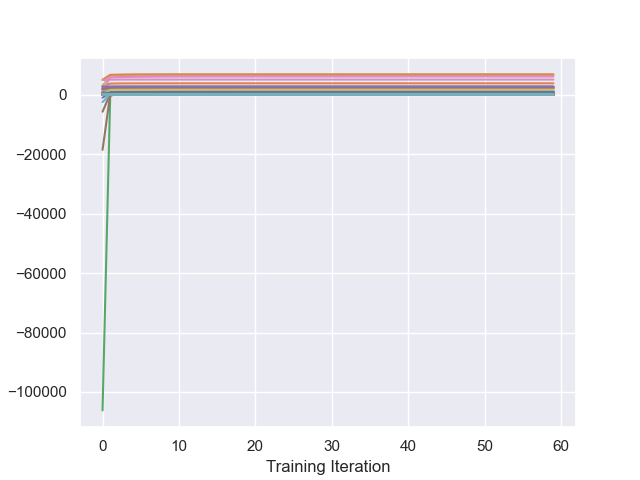
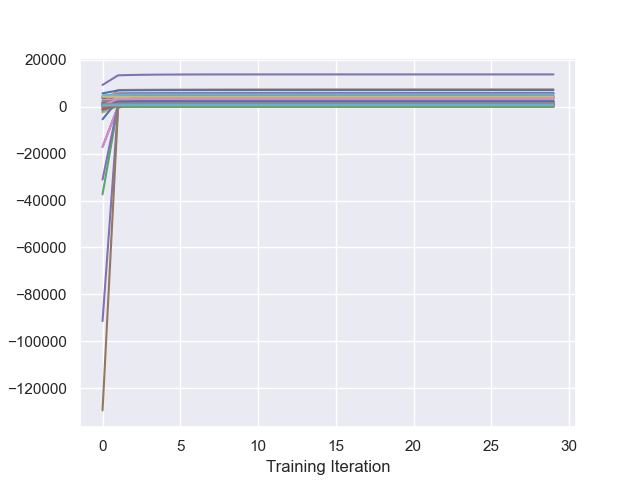
learning w better with cavi + binary optimizers

diff --git a/sp/src/trainer.py b/sp/src/trainer.py
@@ -30,7 +30,7 @@ class Trainer(object):
         # if using functional annotations
         if self.args.annotations:
             # annotation weight vector to be learned as a parameter
-            self.w = nn.Parameter(torch.tensor([0.]).repeat(self.num_annotations)) #TODO: confirm w should be initialized to 0 (was previously set to 1)
+            self.w = nn.Parameter(torch.tensor([5.]).repeat(self.num_annotations)) #TODO: confirm w should be initialized to 0 (was previously set to 1)
         
             # optimizer for annotation weight vector w
             if self.args.weight_opt == 'adam':
@@ -136,7 +136,9 @@ class Trainer(object):
                 loss = self.model() # compute ELBO
                 loss.backward(retain_graph=True) # TODO: what happens if I stop this?
                 t1 = self.model.gamma() # before
+                print(f'locus {locus} 2: ', self.w)
                 self.variational_opt.step()
+                print(f'locus {locus} 3: ', self.w)
                 t2 = self.model.gamma() # after
                 
                 idx = torch.argwhere( t1 != t2)
@@ -167,7 +169,7 @@ class Trainer(object):
             # compute multivariate-or function using log-sum-exp trick
             multivariate_or = 1 - torch.exp(torch.sum(torch.log(1 - gamma), dim=1))
             val, idx = torch.topk(multivariate_or, 5)
-            if self.args.verbose:
+            if self.args.verbose: # print if verbose
                 print(f'Locus {locus}:\t', idx.detach().numpy(), 
                     '  \t\t(SNP Index)', '\n\t\t', 
                     np.around(val.detach().numpy(), decimals=3),
@@ -182,9 +184,9 @@ class Trainer(object):
             
         # plotting
         self.plot_auprc(true.detach().numpy(), pred.detach().numpy())
-        self.plot_hist1(pred.detach().numpy())
-        self.plot_hist2(pred.detach().numpy())
-        self.plot_hist3(pred.detach().numpy())       
+        # self.plot_hist1(pred.detach().numpy())
+        # self.plot_hist2(pred.detach().numpy())
+        # self.plot_hist3(pred.detach().numpy())       
            
         # printing annotation weight vector
         if self.args.annotations:

diff --git a/sp/src/model.py b/sp/src/model.py
@@ -38,7 +38,7 @@ class SparsePro(nn.Module):
 
         # priors
         self.y_tau = 1.0 / (self.y_var * (1-self.h2)) # [1 x 1]
-        self.prior_pi = (1/self.p).repeat(self.p) # [num SNPs x 1]
+        self.pi = (1/self.p).repeat(self.p) # [num SNPs x 1]
         self.beta_prior_tau = torch.tile(torch.tensor(
             (1.0 / self.b_var * np.array([k+1 for k in range(self.k)])), 
             dtype=torch.float32), (self.p, 1))
@@ -77,7 +77,7 @@ class SparsePro(nn.Module):
         betaterm1 = -0.5 * (self.beta_prior_tau * self.gamma() 
             * (self.beta_mu**2)).sum()
         gammaterm1 = (self.gamma() * torch.tile(
-            self.prior_pi.reshape(-1, 1), (1, self.k))).sum()
+            self.pi.reshape(-1, 1), (1, self.k))).sum()
         gammaterm2 = (self.gamma()[self.gamma() != 0] *
             torch.log(self.gamma()[self.gamma() != 0])).sum()
         mkl = betaterm1 + gammaterm1 - gammaterm2
@@ -112,7 +112,8 @@ class SparsePro(nn.Module):
             w ([num_annotations]): vector that weights functional annotations
         """
        
-        self.prior_pi = self.softmax(self.annotations @ w)
+        self.pi = self.softmax(self.annotations @ w)
+        # self.u = nn.Parameter((self.annotations @ w).repeat((self.k)))
 
     def init_variational_params(self):
         '''Initialize the variational parameters gamma and beta_mu with CAVI
@@ -145,7 +146,7 @@ class SparsePro(nn.Module):
                             self.beta_post_tau[:,k] * self.y_tau)
             
             u[:,k] = (-0.5*torch.log(self.beta_post_tau[:,k])
-                        + torch.log(self.prior_pi.t()) 
+                        + torch.log(self.pi.t()) 
                         + 0.5 * beta_mu[:,k]**2 * self.beta_post_tau[:,k])
             gamma[:,k] = self.softmax(u[:,k])
     

diff --git a/sp/src/cavi_opt.py b/sp/src/cavi_opt.py
@@ -9,7 +9,7 @@ class CAVI(Optimizer):
         self.XtX = model.XtX
         self.beta_post_tau = model.beta_post_tau
         self.y_tau = model.y_tau
-        self.prior_pi = model.prior_pi
+        self.pi = model.pi
         self.softmax = model.softmax
         
         defaults = {} # empty dict
@@ -20,13 +20,13 @@ class CAVI(Optimizer):
         u = self.param_groups[0]['params'][0]
         gamma = self.softmax(u)
         beta_mu = self.param_groups[0]['params'][1]
-        
+                
         for k in range(self.k):
             idxall = [x for x in range(self.k)]
             idxall.remove(k)
             beta_all_k = (gamma[:,idxall] * beta_mu[:,idxall]).sum(axis=1)
             beta_mu[:,k] = (self.ytX-torch.matmul(beta_all_k, self.XtX))/self.beta_post_tau[:,k] * self.y_tau
-            u[:,k] = -0.5*torch.log(self.beta_post_tau[:,k]) + torch.log(self.prior_pi.t()) + 0.5 * beta_mu[:,k]**2 * self.beta_post_tau[:,k]
+            u[:,k] = -0.5*torch.log(self.beta_post_tau[:,k]) + torch.log(self.pi.t()) + 0.5 * beta_mu[:,k]**2 * self.beta_post_tau[:,k]
             gamma[:,k] = self.softmax(u[:,k])
             
         assert(beta_mu.isnan().any() == False)

diff --git a/sp/src/binary_opt.py b/sp/src/binary_opt.py
@@ -20,8 +20,9 @@ class Binary(Optimizer):
     @torch.no_grad()
     def step(self, closure=None):
         w = self.param_groups[0]['params'][0]
-        
         t1 = self.A @ w # compute once outside for loop
+        
+        # iterate over all annotations
         for i in range(self.num_annotations):
             t2 = self.A[:,i] * w[i]
             
@@ -33,6 +34,5 @@ class Binary(Optimizer):
             
             r0 = torch.sum(idx0 * self.gamma[:, i])
             r1 = torch.sum(idx1 * self.gamma[:, i])
-                    
+            
             w[i] = torch.log((r1/r0) / (k1/k0))
-            w[i] = 1.0
